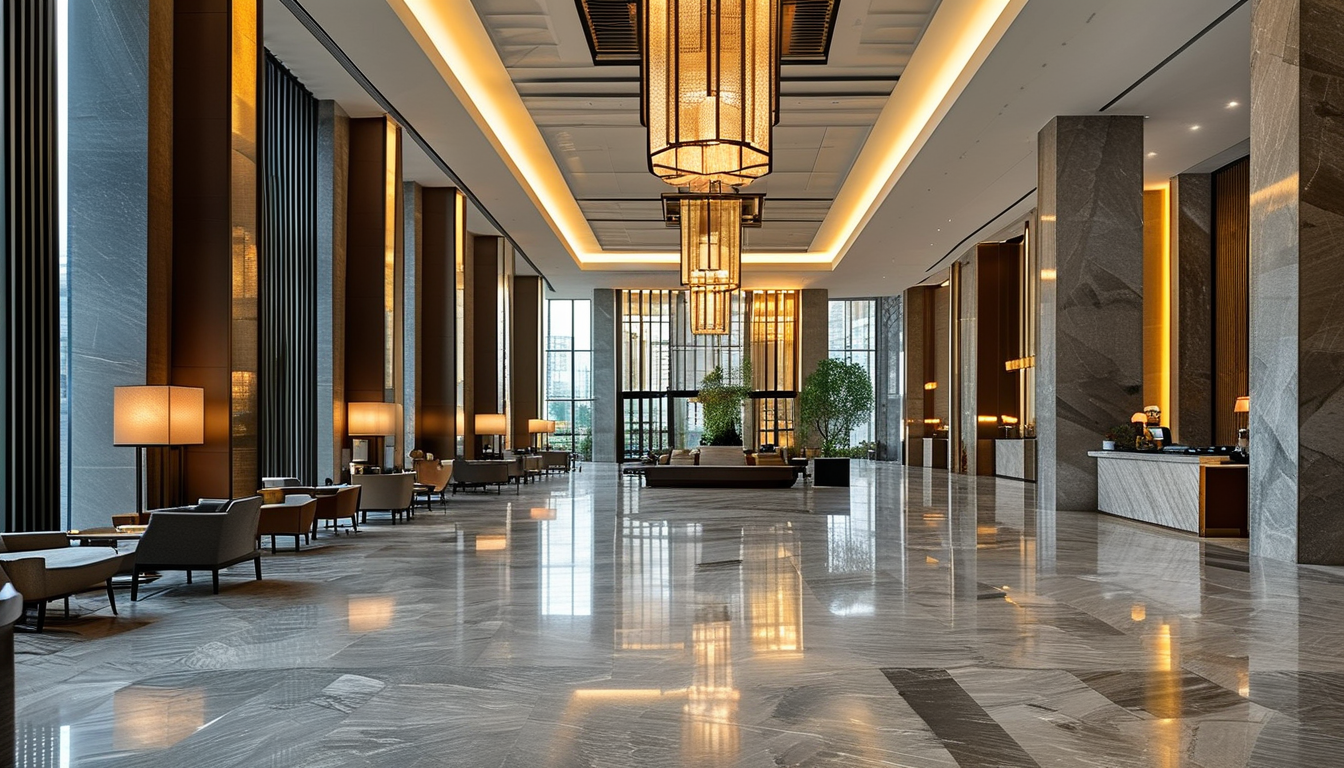
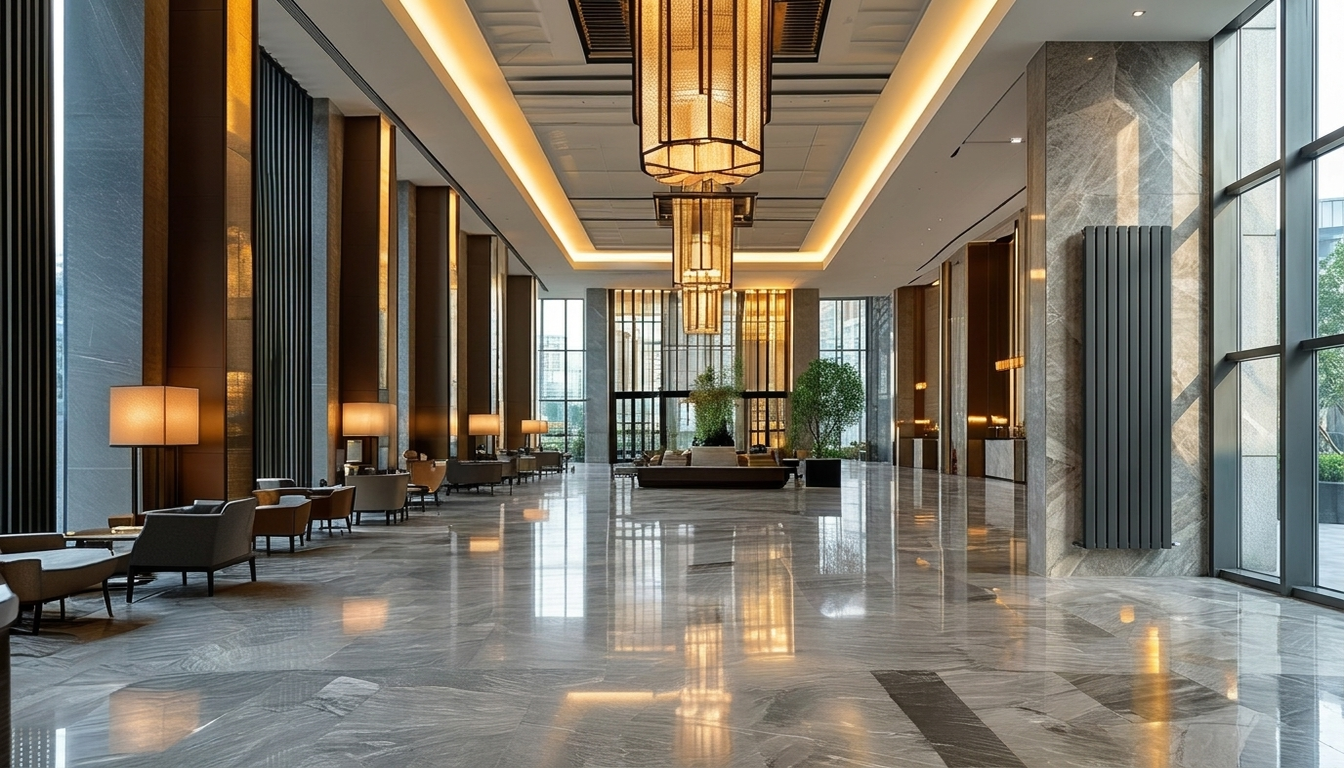
feat: ship 4 items — product nav dropdown, card routing, customer map, new scene images
① Product nav dropdown: add hover dropdown on Products nav link showing all 5 category
   anchors (designer/panel/column/towel/bimetal) using categoryLabels from lib/products.

② Homepage 4-card routing: cards now link to /products#<cat> anchors; product page
   sections get id + scroll-mt-28 for smooth anchor navigation. OEM card routes to /contact.

③ Customer map section: new CustomerMap component (app/[lang]/CustomerMap.tsx) added to
   homepage above contact CTA. Shows 24 export countries (Europe, CIS, Caucasus, Africa,
   Americas/Asia) with flag emojis, region-pill summary and dotted-grid world map styling.
   Fully localized across all 5 languages (zh/en/ru/es/mn) via new customerMap dictionary key.

④ Scene images replaced: scene-hotel-lobby.png and scene-office.png replaced with new
   AI-generated images (scene-hotel-20260702 and scene-office-20260702), resized to
   1344×768 to match existing dimensions. In-place replacement keeps all references intact.

diff --git a/app/[lang]/CustomerMap.tsx b/app/[lang]/CustomerMap.tsx
@@ -1,0 +1,118 @@
+"use client";
+
+interface Country {
+  code: string;
+  name: string;
+  flag: string;
+  region: string;
+}
+
+interface CustomerMapProps {
+  kicker: string;
+  title: string;
+  subtitle: string;
+  countries: Record<string, string>;
+}
+
+// Country flag emojis derived from ISO-3166-1 alpha-2 codes
+function flagEmoji(code: string): string {
+  return code
+    .toUpperCase()
+    .split("")
+    .map((c) => String.fromCodePoint(0x1f1e6 + c.charCodeAt(0) - 65))
+    .join("");
+}
+
+const COUNTRY_CODES = [
+  // Europe
+  "GB", "DE", "FR", "BE", "ES", "PL", "RO", "SE",
+  // CIS / Central Asia
+  "RU", "BY", "UA", "KZ", "UZ", "KG", "TM", "TJ",
+  // Caucasus / Mideast
+  "GE", "AM", "AZ", "TR",
+  // Africa
+  "DZ", "LY",
+  // Other
+  "AR", "MN",
+];
+
+const REGION_GROUPS: { key: string; label: string; codes: string[] }[] = [
+  { key: "europe", label: "Europe", codes: ["GB", "DE", "FR", "BE", "ES", "PL", "RO", "SE"] },
+  { key: "cis", label: "CIS / Central Asia", codes: ["RU", "BY", "UA", "KZ", "UZ", "KG", "TM", "TJ"] },
+  { key: "mideast", label: "Caucasus & Middle East", codes: ["GE", "AM", "AZ", "TR"] },
+  { key: "africa", label: "Africa", codes: ["DZ", "LY"] },
+  { key: "other", label: "Americas & Asia", codes: ["AR", "MN"] },
+];
+
+export default function CustomerMap({ kicker, title, subtitle, countries }: CustomerMapProps) {
+  return (
+    <section className="bg-[#FFF7ED] text-[#1E293B] py-24 px-6 lg:px-14 overflow-hidden">
+      {/* Header */}
+      <div className="max-w-4xl mb-14">
+        <p className="text-[var(--jd-red)] uppercase tracking-[0.3em] font-extrabold text-sm mb-5">{kicker}</p>
+        <h2 className="text-4xl lg:text-6xl font-black leading-tight tracking-tight">{title}</h2>
+        <p className="mt-5 text-[#64748B] text-lg leading-relaxed max-w-2xl">{subtitle}</p>
+      </div>
+
+      {/* Stylised world-map dot grid — pure CSS, no library */}
+      <div
+        className="relative w-full rounded-2xl overflow-hidden border border-[#F1E7DC] shadow-[0_8px_40px_rgba(30,41,59,0.07)] mb-12"
+        style={{ minHeight: 220 }}
+      >
+        {/* Dot-grid background */}
+        <div
+          className="absolute inset-0"
+          style={{
+            backgroundImage:
+              "radial-gradient(circle, #EA580C22 1px, transparent 1px)",
+            backgroundSize: "22px 22px",
+            backgroundPosition: "0 0",
+          }}
+        />
+        {/* Warm gradient overlay */}
+        <div className="absolute inset-0 bg-gradient-to-br from-white/70 via-[#FFF7ED]/60 to-[#FFF7ED]/80" />
+
+        {/* Central stat + region labels */}
+        <div className="relative z-10 flex flex-col items-center justify-center py-16 px-6 text-center gap-6">
+          {/* Big number */}
+          <div className="flex items-baseline gap-3">
+            <span className="text-8xl lg:text-9xl font-black text-[var(--jd-red)] leading-none select-none">24</span>
+            <span className="text-2xl lg:text-3xl font-black text-[#1E293B]/40 leading-none">+</span>
+          </div>
+          <p className="text-[#1E293B]/60 text-lg font-semibold uppercase tracking-widest">
+            Export Markets
+          </p>
+
+          {/* Region pills */}
+          <div className="flex flex-wrap justify-center gap-3 mt-2">
+            {REGION_GROUPS.map((rg) => (
+              <span
+                key={rg.key}
+                className="inline-flex items-center gap-1.5 px-4 py-2 rounded-full bg-white border border-[#F1E7DC] text-sm font-semibold text-[#1E293B]/70 shadow-sm"
+              >
+                <span className="w-2 h-2 rounded-full bg-[var(--jd-red)] shrink-0" />
+                {rg.label}
+                <span className="ml-1 text-[var(--jd-red)] font-black">{rg.codes.length}</span>
+              </span>
+            ))}
+          </div>
+        </div>
+      </div>
+
+      {/* Flag grid — all 24 countries */}
+      <div className="grid grid-cols-3 sm:grid-cols-4 md:grid-cols-6 lg:grid-cols-8 gap-3">
+        {COUNTRY_CODES.map((code) => (
+          <div
+            key={code}
+            className="group flex flex-col items-center gap-2 p-3 rounded-xl bg-white border border-[#F1E7DC] shadow-[0_2px_8px_rgba(30,41,59,0.04)] hover:border-[var(--jd-red)]/40 hover:shadow-[0_4px_20px_rgba(234,88,12,0.12)] transition-all duration-200 cursor-default"
+          >
+            <span className="text-3xl leading-none select-none">{flagEmoji(code)}</span>
+            <span className="text-xs font-semibold text-[#64748B] text-center leading-tight group-hover:text-[var(--jd-red)] transition-colors line-clamp-2">
+              {countries[code] ?? code}
+            </span>
+          </div>
+        ))}
+      </div>
+    </section>
+  );
+}

diff --git a/app/[lang]/page.tsx b/app/[lang]/page.tsx
@@ -10,6 +10,7 @@ import CertMarquee from "./CertMarquee";
 import HeroCarousel, { type HeroSlide } from "./HeroCarousel";
 import { VRTour } from "./VRTour";
 import { vrTourUrl } from "@/lib/vr";
+import CustomerMap from "./CustomerMap";
 
 // Small line icons paired with the homepage stat metrics.
 const ICON = "w-5 h-5";
@@ -160,14 +161,14 @@ export default async function HomePage({ params }: { params: Promise<{ lang: str
         </div>
         <div className="grid md:grid-cols-2 lg:grid-cols-4 gap-3">
           {[
-            { title: d.products.designer, desc: d.products.designerDesc, slug: "jd25y", img: "/assets/ai-images/cat-designer.png", num: "01", featured: true },
-            { title: d.products.steel, desc: d.products.steelDesc, slug: "jd-22k", img: "/assets/ai-images/cat-panel.png", num: "02", featured: false },
-            { title: d.products.towel, desc: d.products.towelDesc, slug: "jdwy-s", img: "/assets/products/jdwy-s/scene-1.jpg", num: "03", featured: false },
-            { title: d.products.oem, desc: d.products.oemDesc, slug: "jdgz3", img: "/assets/ai-images/cat-column.png", num: "04", featured: false },
+            { title: d.products.designer, desc: d.products.designerDesc, href: `/${locale}/products#designer`, img: "/assets/ai-images/cat-designer.png", num: "01", featured: true },
+            { title: d.products.steel, desc: d.products.steelDesc, href: `/${locale}/products#panel`, img: "/assets/ai-images/cat-panel.png", num: "02", featured: false },
+            { title: d.products.towel, desc: d.products.towelDesc, href: `/${locale}/products#towel`, img: "/assets/products/jdwy-s/scene-1.jpg", num: "03", featured: false },
+            { title: d.products.oem, desc: d.products.oemDesc, href: `/${locale}/contact`, img: "/assets/ai-images/cat-column.png", num: "04", featured: false },
           ].map((p) => (
             <Link
-              key={p.slug}
-              href={`/${locale}/products/${p.slug}`}
+              key={p.num}
+              href={p.href}
               className={`group relative flex flex-col overflow-hidden rounded-lg bg-white border border-[#F1E7DC] shadow-[0_4px_16px_rgba(30,41,59,0.05)] product-card-hover transition-all duration-500 ${p.featured ? "ring-1 ring-[var(--jd-red)]/40 shadow-[0_0_30px_rgba(234,88,12,0.15)]" : ""}`}
             >
               <div className="relative h-[260px] overflow-hidden bg-gradient-to-b from-[#FFF7ED] to-white">
@@ -366,6 +367,14 @@ export default async function HomePage({ params }: { params: Promise<{ lang: str
           </div>
         </div>
       </section>
+
+      {/* Customer Map — global export presence */}
+      <CustomerMap
+        kicker={d.customerMap.kicker}
+        title={d.customerMap.title}
+        subtitle={d.customerMap.subtitle}
+        countries={d.customerMap.countries}
+      />
 
       {/* Contact CTA — signature orange block with white text */}
       <section className="py-24 px-6 lg:px-14 bg-[#FFF7ED]">

diff --git a/app/[lang]/layout.tsx b/app/[lang]/layout.tsx
@@ -1,6 +1,7 @@
 import "../globals.css";
 import { locales, type Locale } from "@/lib/i18n";
 import { getDictionary } from "@/lib/dictionary";
+import { categoryLabels } from "@/lib/products";
 import { BASE_URL, SITE_NAME } from "@/lib/constants";
 import Link from "next/link";
 import Image from "next/image";
@@ -11,6 +12,10 @@ import { ContactWidget } from "./ContactWidget";
 export function generateStaticParams() {
   return locales.map((lang) => ({ lang }));
 }
+
+// Product categories for the "产品" nav dropdown; anchors match the id on each
+// category section in app/[lang]/products/page.tsx.
+const PRODUCT_CATS = ["designer", "panel", "column", "towel", "bimetal"] as const;
 
 const organizationJsonLd = (locale: Locale) => ({
   "@context": "https://schema.org",
@@ -101,7 +106,21 @@ export default async function LangLayout({
             </div>
           </Link>
           <nav className="hidden lg:flex gap-5 xl:gap-7 font-semibold text-sm xl:text-base text-[#1E293B]/75">
-            <Link href={`/${locale}/products`} className="whitespace-nowrap hover:text-[var(--jd-red)] transition-colors">{d.nav.products}</Link>
+            <div className="relative group">
+              <Link href={`/${locale}/products`} className="whitespace-nowrap hover:text-[var(--jd-red)] transition-colors inline-flex items-center gap-1">
+                {d.nav.products}
+                <svg className="w-3 h-3 opacity-60 transition-transform group-hover:rotate-180" viewBox="0 0 12 12" fill="none" aria-hidden="true"><path d="M2.5 4.5 6 8l3.5-3.5" stroke="currentColor" strokeWidth="1.5" strokeLinecap="round" strokeLinejoin="round" /></svg>
+              </Link>
+              <div className="absolute left-0 top-full pt-3 w-56 invisible opacity-0 translate-y-1 group-hover:visible group-hover:opacity-100 group-hover:translate-y-0 transition-all duration-150">
+                <div className="bg-white rounded-lg shadow-xl border border-[#F1E7DC] py-2">
+                  {PRODUCT_CATS.map((cat) => (
+                    <Link key={cat} href={`/${locale}/products#${cat}`} className="block px-4 py-2.5 text-sm text-[#1E293B]/80 hover:text-[var(--jd-red)] hover:bg-[#FFF7ED] transition-colors">
+                      {(categoryLabels[locale] ?? categoryLabels.en)[cat]}
+                    </Link>
+                  ))}
+                </div>
+              </div>
+            </div>
             <Link href={`/${locale}/about`} className="whitespace-nowrap hover:text-[var(--jd-red)] transition-colors">{d.nav.about}</Link>
             <Link href={`/${locale}/credentials`} className="whitespace-nowrap hover:text-[var(--jd-red)] transition-colors">{d.nav.credentials}</Link>
             <Link href={`/${locale}/cases`} className="whitespace-nowrap hover:text-[var(--jd-red)] transition-colors">{d.nav.cases}</Link>

diff --git a/app/[lang]/products/page.tsx b/app/[lang]/products/page.tsx
@@ -54,7 +54,7 @@ export default async function ProductsPage({ params }: { params: Promise<{ lang:
         const catProducts = products.filter((p) => p.category === cat);
         if (catProducts.length === 0) return null;
         return (
-          <div key={cat} className="mb-16">
+          <div key={cat} id={cat} className="mb-16 scroll-mt-28">
             <h2 className="text-2xl font-bold mb-6 border-b-2 border-[var(--jd-red)] pb-3 inline-block">{labels[cat]} <span className="text-gray-400 text-base font-normal ml-2">{catProducts.length} models</span></h2>
             <div className="grid grid-cols-2 md:grid-cols-3 lg:grid-cols-4 gap-4 mt-6">
               {catProducts.map((p) => {
